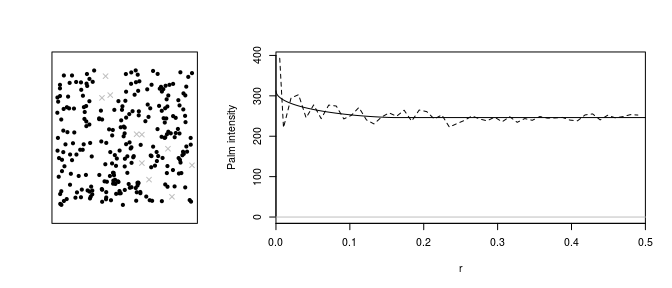
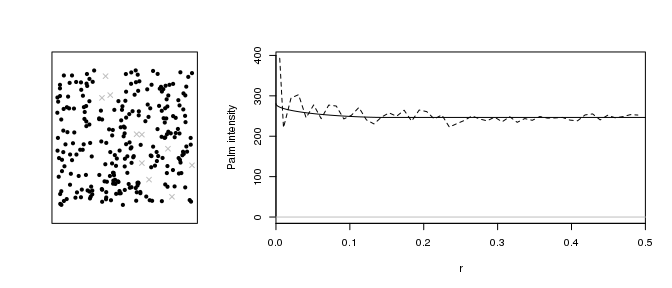
updating CRC links

diff --git a/CRC_point_process.md b/CRC_point_process.md
@@ -14,8 +14,7 @@ grey crosses and daughters by black dots---along with the fitted (solid
 lines) and empirical (dashed lines) Palm intensity functions.
 
 Please note that parameters of the Palm intensity functions may differ,
-in name only, from the descriptions in Jones-Todd et al. (In
-submission).
+in name only, from the descriptions in Jones-Todd et al. (2018).
 
     library(palm)
 
@@ -43,7 +42,7 @@ daughters are scattered around their parents.
     coef(fit.thomas)
 
     ##          D     lambda      sigma 
-    ## 3.87798778 6.29007212 0.05679659
+    ## 3.87800024 6.29007765 0.05679637
 
 ![](CRC_point_process_files/figure-markdown_strict/plot%20thomas-1.png)
 
@@ -84,7 +83,7 @@ parent.
     coef(fit.void)
 
     ##           Dp           Dc          tau 
-    ##  11.39166194 312.34401006   0.08159933
+    ##   8.00503329 280.52032288   0.07164047
 
 ![](CRC_point_process_files/figure-markdown_strict/plot%20void-1.png)
 
@@ -92,10 +91,9 @@ CRC data
 ========
 
 This section discusses fitting models to the colorectal cancer (CRC)
-data discussed in Jones-Todd et al. (In submission). Please note that
-the CRC data cannot be supplied however to illustrate the methods in
-Jones-Todd et al. (In submission) we simulate data from a Thomas point
-process model.
+data discussed in Jones-Todd et al. (2018). Please note that the CRC
+data cannot be supplied however to illustrate the methods in Jones-Todd
+et al. (2018) we simulate data from a Thomas point process model.
 
 ![Illustration of one image of a patient's slide which enables the
 pinpointing of nuclei. Plot i) is a composite immunofluorescence digital
@@ -104,7 +102,7 @@ highlights all nuclei in the image). Plot ii) is an image analysis mask
 overlay from automatic machine learnt segmentation of the digital image:
 Plot iii) is the point pattern formed by the nuclei of the tumour
 (black) and stroma (grey) cells shown in the previous two
-images.](CRC_point_process_files/figure-markdown_strict/cancer.png)
+images.](../CRC_point_process_files/figure-markdown_strict/image.pdf)
 
 The **palm** functions **fit.ns()** and **fit.void()** can also take
 lists for and **lims** arquments. This allows us to estimate parameters
@@ -165,13 +163,13 @@ and illustrate fitting a Thomas process to the data.
     coef(fit.one)
 
     ##          D     lambda      sigma 
-    ## 7.95941948 6.80545183 0.04658544
+    ## 7.95838999 6.80621184 0.04658654
 
     fit.two <- fit.ns(points = sim.points.two, lims = lims, R = 0.5)
     coef(fit.two)
 
     ##          D     lambda      sigma 
-    ## 9.66838370 3.57232273 0.09250772
+    ## 9.66838372 3.57232273 0.09250772
 
     ## plot Palm intensity for all patterns
     plot(fit.one)
@@ -186,9 +184,9 @@ References
 ==========
 
 Jones-Todd, C. M, P Caie, J Illian, B. C Stevenson, A Savage, D
-Harrison, and J Bown. In submission. “Identifying Unusual Structures
-Inherent in Point Pattern Data and Its Application in Predicting Cancer
-Patient Survival.”
+Harrison, and J Bown. 2018. “Identifying Unusual Structures Inherent in
+Point Pattern Data and Its Application in Predicting Cancer Patient
+Survival.” *Statistics in Medicine* DOI:10.10002/sim.8046.
 
 Stevenson, B. C. 2017. *Palm: Fitting Point Process Models Using the
 Palm Likelihood*. <https://github.com/b-steve/palm>.

diff --git a/README.md b/README.md
@@ -6,11 +6,11 @@ A collection of short tutorials that demonstrate the use of code used to fit mod
 
 ### fit_multi.md
 
-Details the function used for the analysis of the Garden Bird Feeding Survey (GBFS) data provided by the British Trust for Ornithology (BTO) in the paper `A spatio-temporal multi-species model of a semi-continuous response' to appear in the Journal of the Royal Statistical Society series C.
+Details the function used for the analysis of the Garden Bird Feeding Survey (GBFS) data provided by the British Trust for Ornithology (BTO) in the paper "A spatio-temporal multi-species model of a semi-continuous response." C. M. Jones-Todd, B. Swallow, J. B. Illian, M. Toms. 2018. *Journal of the Royal Statistical Society: Series C (Applied Statistics)* 67 (3), 7005--722.
 
 ### CRC_point_process.md
 
-Details the functions used for colon rectal cancer patient data.
+Using cluster and void processes to model point patterns of tumour and stroma cell locations on slides from colon cancer patients. "Identifying prognostic structural features in tissue sections of colon cancer patients using point pattern analysis." C. M. Jones-Todd, P. Caie, J. B. Illian, B. C. Stevenson, A. Savage, D. J. Harrison, and J. L. Bown. 2018. DOI:10:1002/sim.8046
 
 ### shared_stochastic.md
 
